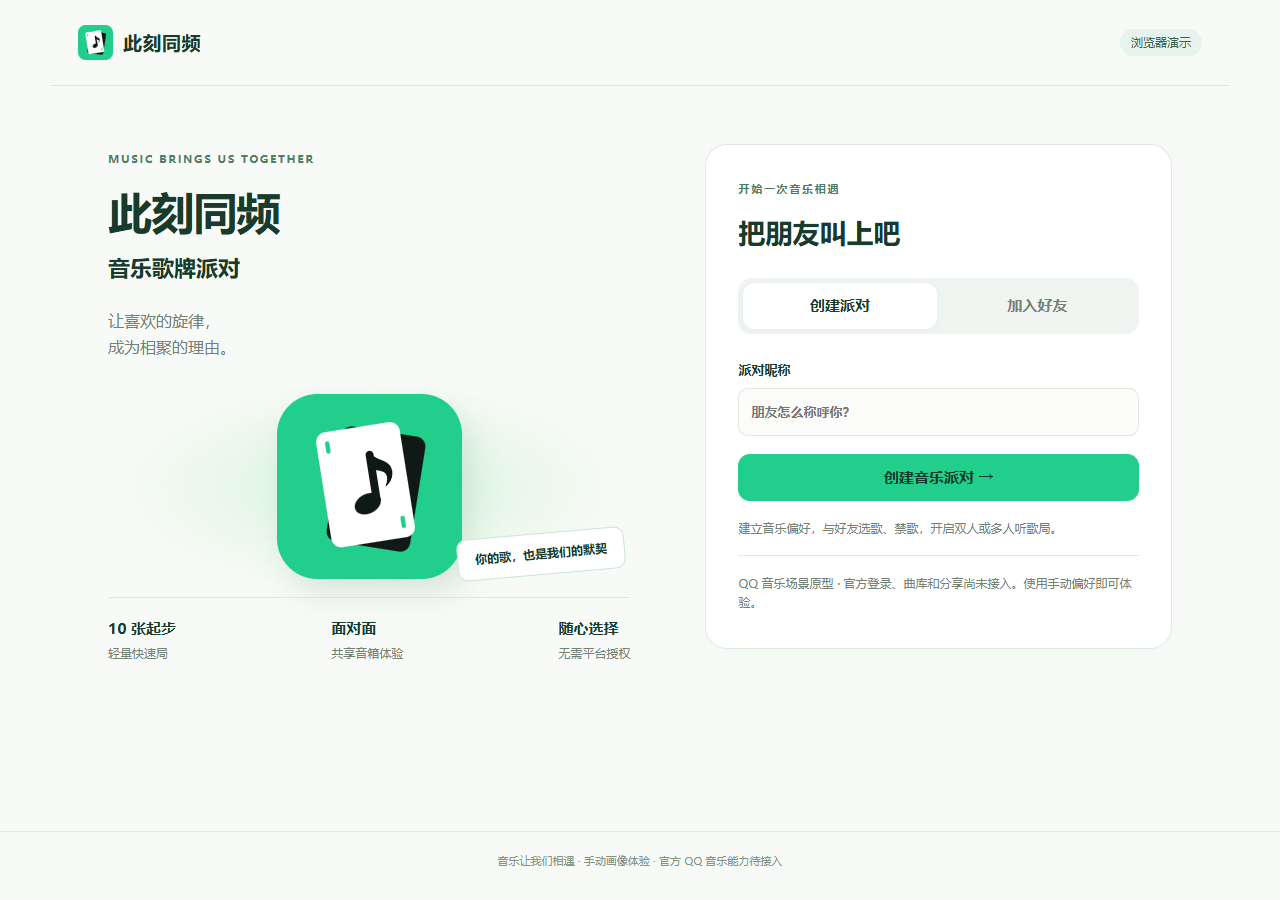
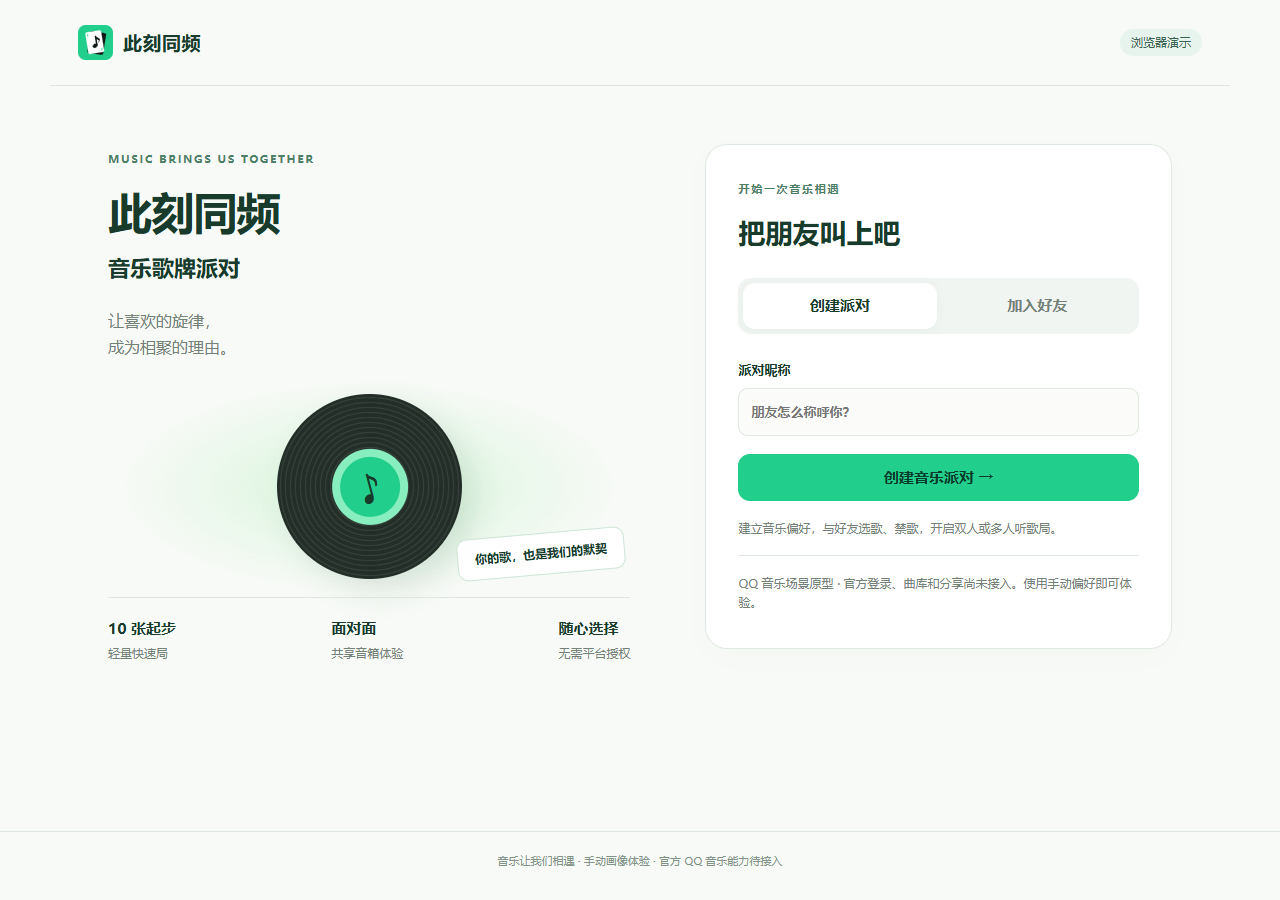
style: restore homepage vinyl artwork

Changed region(s): [[0.2188, 0.4356, 0.375, 0.6533]]

diff --git a/apps/web/src/style.css b/apps/web/src/style.css
@@ -174,7 +174,7 @@ main {
   color: var(--ink);
   margin-bottom: 22px;
 }
-.brand-art {
+.record-art {
   height: 220px;
   position: relative;
   display: flex;
@@ -182,12 +182,32 @@ main {
   justify-content: center;
   background: radial-gradient(ellipse, #d5f4d9 0, transparent 67%);
 }
-.hero-brand-icon {
+.vinyl {
   height: 185px;
   width: 185px;
-  display: block;
-  object-fit: contain;
-  filter: drop-shadow(8px 15px 14px #1b55301f);
+  border-radius: 50%;
+  background: repeating-radial-gradient(
+    circle,
+    #242e29 0,
+    #242e29 3px,
+    #364139 4px,
+    #27372e 5px
+  );
+  box-shadow: 8px 15px 28px #1b55301f;
+  display: grid;
+  place-items: center;
+  transform: rotate(-15deg);
+}
+.vinyl span {
+  background: var(--green);
+  width: 76px;
+  height: 76px;
+  border: 8px solid #88eec0;
+  border-radius: 50%;
+  display: grid;
+  place-items: center;
+  font-size: 42px;
+  line-height: 1;
 }
 .float-note {
   position: absolute;
@@ -747,17 +767,24 @@ footer {
   .hero .hero-subtitle {
     font-size: 18px;
   }
-  .brand-art {
+  .record-art {
     position: absolute;
     right: 0;
     top: 94px;
     width: 120px;
     height: 135px;
+    opacity: 0.75;
     pointer-events: none;
   }
-  .hero-brand-icon {
+  .vinyl {
     width: 115px;
     height: 115px;
+  }
+  .vinyl span {
+    width: 48px;
+    height: 48px;
+    font-size: 27px;
+    border-width: 5px;
   }
   .float-note {
     display: none;

diff --git a/apps/web/src/main.tsx b/apps/web/src/main.tsx
@@ -388,14 +388,10 @@ function App() {
                 <br />
                 成为相聚的理由。
               </p>
-              <div className="brand-art" aria-hidden="true">
-                <img
-                  className="hero-brand-icon"
-                  src="/brand-icon.svg"
-                  alt=""
-                  width="185"
-                  height="185"
-                />
+              <div className="record-art" aria-hidden="true">
+                <div className="vinyl">
+                  <span>♪</span>
+                </div>
                 <div className="float-note">你的歌，也是我们的默契</div>
               </div>
               <div className="hero-facts">

diff --git a/docs/product-name.md b/docs/product-name.md
@@ -14,9 +14,9 @@
 
 ## 统一图标
 
-用户确认的绿色圆角底、黑白歌牌与黑色音符图标保存在 `apps/web/public/brand-icon.svg`。导航品牌标识、首页主视觉和浏览器标签页均引用同一份矢量资源，取代原来的文字音符与唱片图形；导航出现在入场、偏好、大厅及对局等页面。步骤箭头、选中勾号仍表达原有操作含义。
+用户确认的绿色圆角底、黑白歌牌与黑色音符图标保存在 `apps/web/public/brand-icon.svg`。导航品牌标识和浏览器标签页引用同一份矢量资源；导航出现在入场、偏好、大厅及对局等页面。按用户最新要求，主页中间保留原来的唱片装饰，不使用品牌图标替代。步骤箭头、选中勾号仍表达原有操作含义。
 
-图标使用路径绘制，不依赖设备字体；导航与主视觉的图片留空 alt，由相邻作品名与装饰区域的无障碍语义避免重复朗读。手机导航 30px、桌面导航 35px，主视觉分别 115px / 185px；保持方形比例及原设计颜色。
+图标使用路径绘制，不依赖设备字体；导航图片留空 alt，由相邻作品名避免重复朗读。手机导航 30px、桌面导航 35px，保持方形比例及原设计颜色。唱片装饰手机为 115px、桌面为 185px，并沿用原有沟槽、音符、阴影及移动端布局。
 
 ## 验证
 
@@ -24,7 +24,7 @@
 
 静音 Chrome 核对 360/390/430px 和 1280px：新名称、副标题、slogan、导航无障碍名称与浏览器标题正确，页面无横向溢出；副标题手机为 18px、桌面为 22px。两个独立客户端实际创建/加入同一房间并进入大厅，导航继续显示新名称，无页面异常。已目视核对手机与桌面截图；本轮不执行音频播放、完整对局或 QQ 真机验收。
 
-图标接入后重新通过构建、类型、lint/格式和以上静音浏览器检查；确认首页两张图片解码成功，favicon 与图片指向同一资源，服务返回 200 与 `image/svg+xml`。两位客户端切换音乐偏好、好友大厅、听歌抢牌时导航图标均可见并成功加载；全仓 Web 源码已无旧文字音符、内嵌旧 favicon 或唱片样式。下方截图更新为包含新图标的版本。
+图标接入后重新通过构建、类型、lint/格式和以上静音浏览器检查；确认导航图片解码成功，favicon 与图片指向同一资源，服务返回 200 与 `image/svg+xml`。两位客户端切换音乐偏好、好友大厅、听歌抢牌时导航图标均可见并成功加载。恢复唱片后再次完成前端构建、格式、仓库/diff 与静音浏览器检查；下方截图展示最终的「导航新图标 + 主页唱片」。
 
 ![此刻同频手机主页](evidence/brand-home-mobile.png)
 
